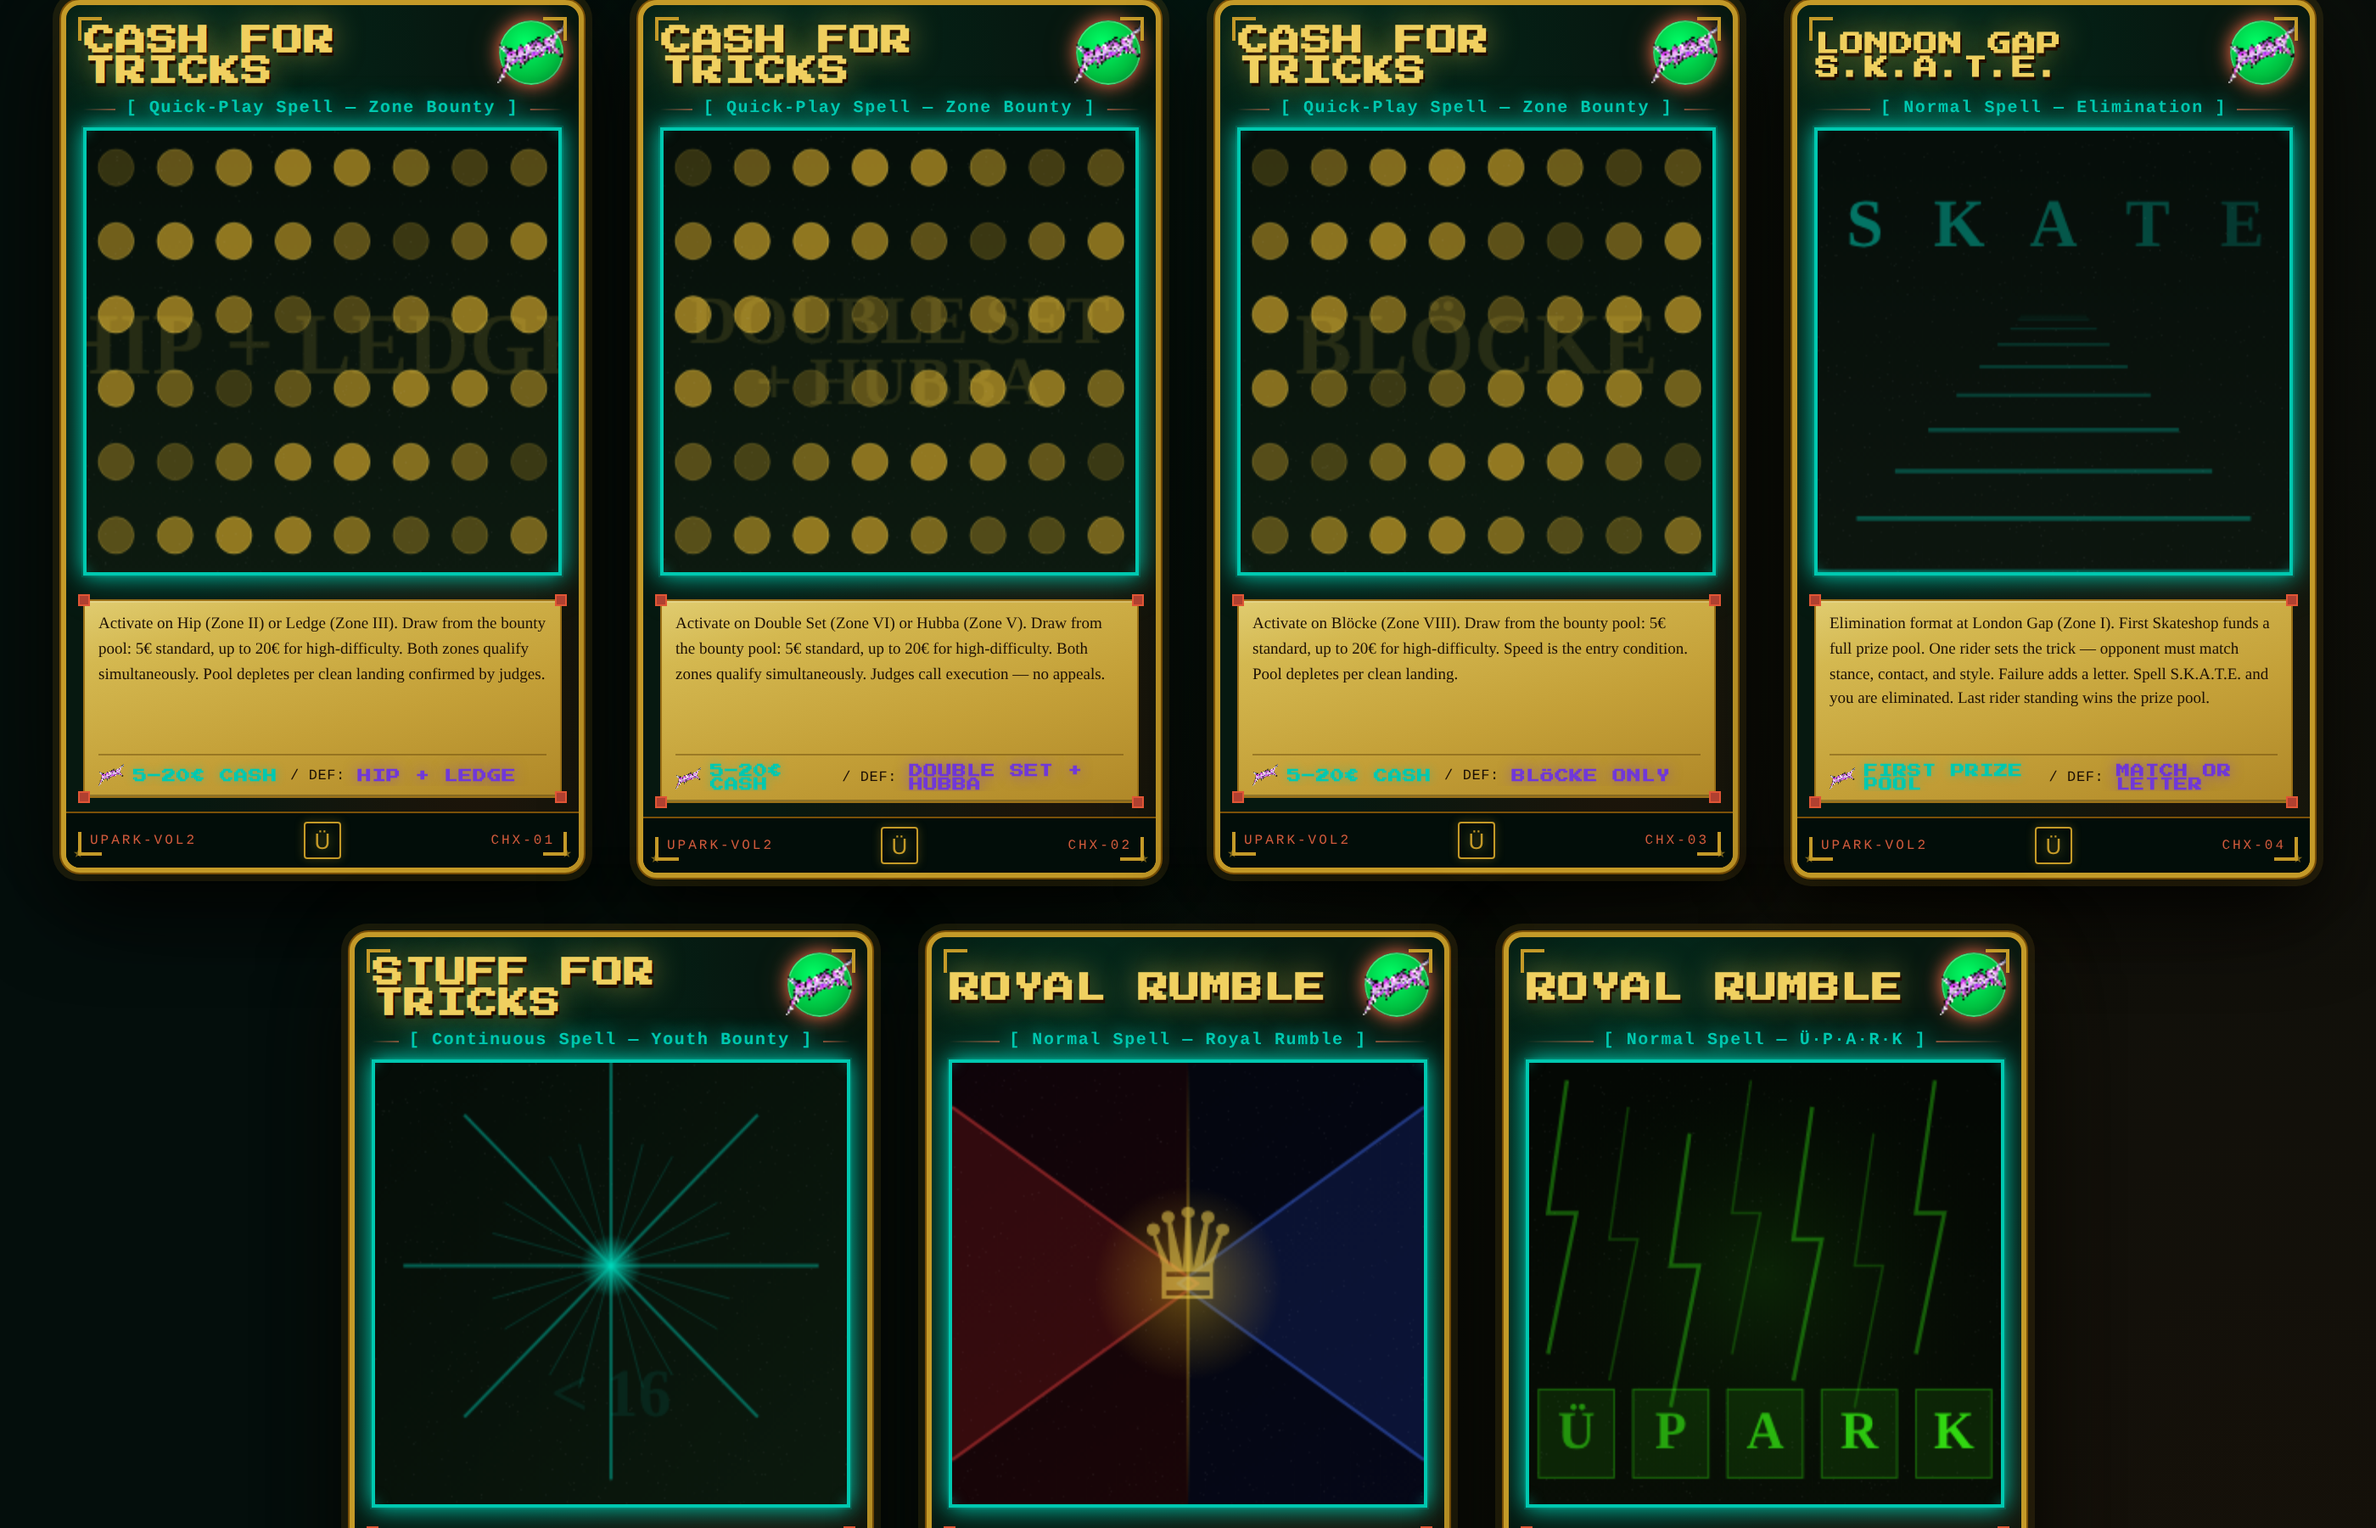
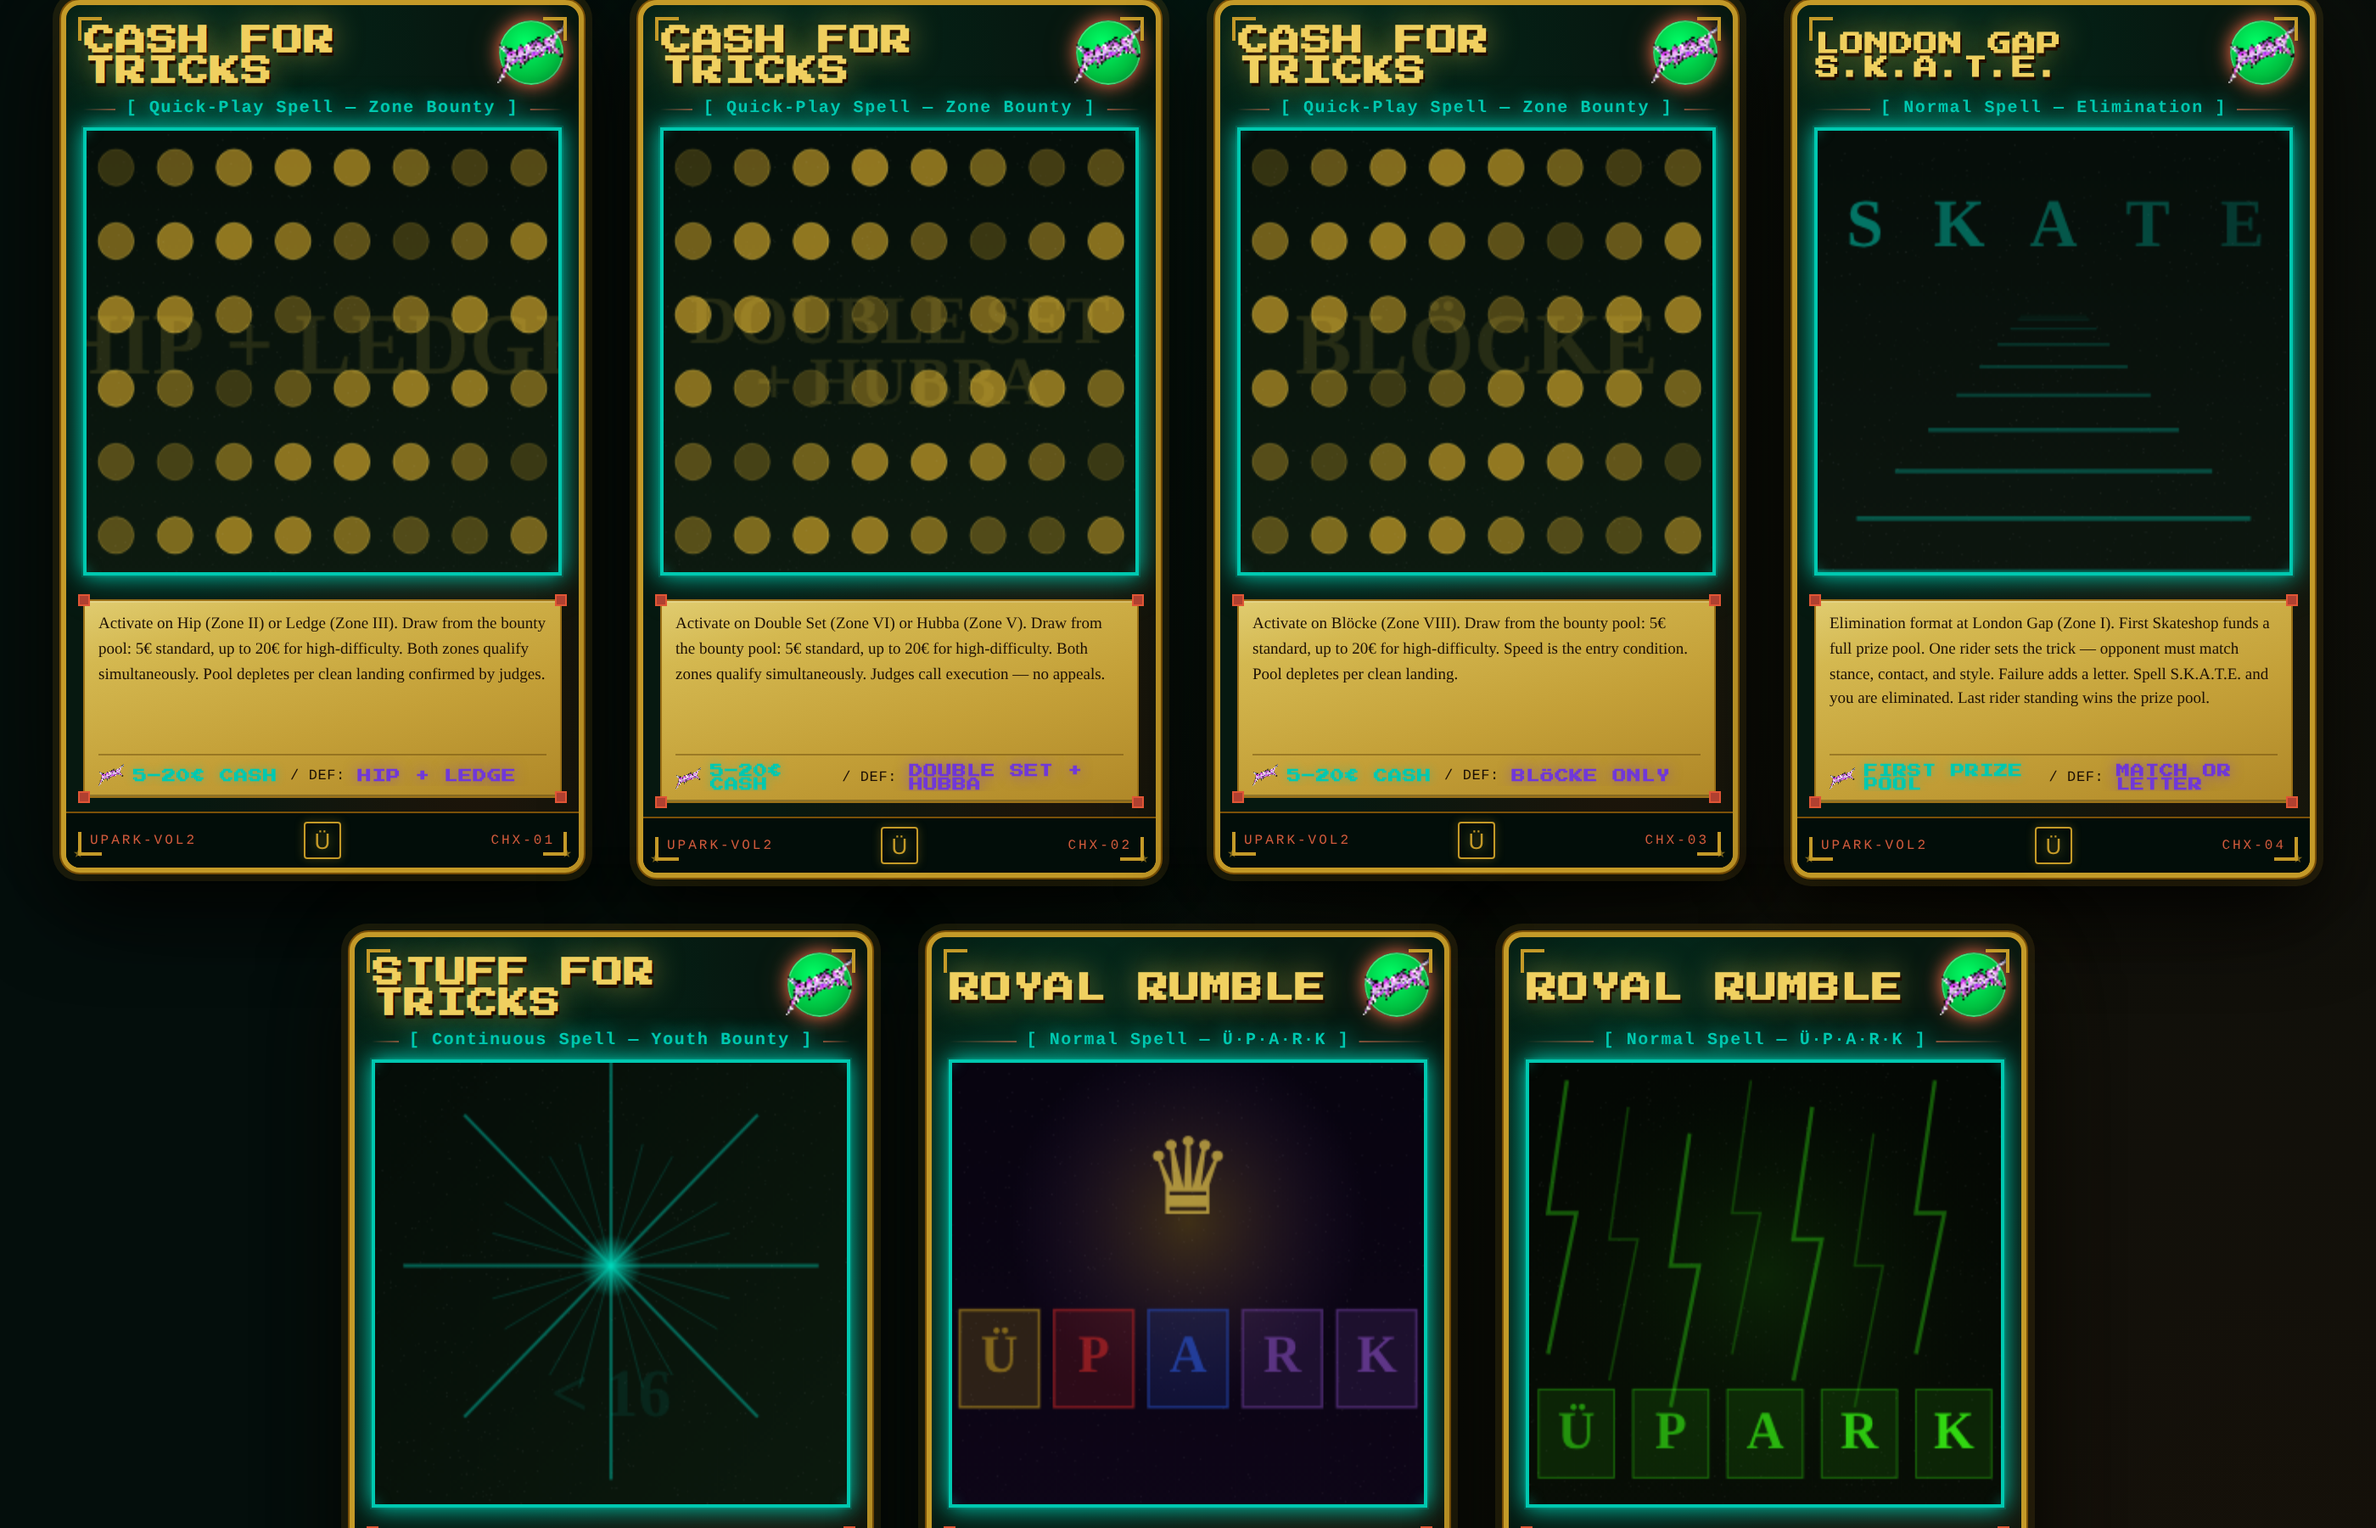
Fix Royal Rumble ÜBER card to use Ü·P·A·R·K mechanic
Both Royal Rumble cards now share the same core game logic: one rider
sets a trick, opponent must match — failure earns a letter, spell
Ü·P·A·R·K and you're out.

CHX-06 (ÜBER): each letter dealt wins an ÜBER deck drop (Gold, Red,
Blue Foil, then two Mystery Drops). Canvas shows purple/gold letter
tiles with crown glyph.

CHX-07 (Pay Day): each letter round won earns 10 Monster Energy cans
for the crowd. Canvas keeps green lightning + letter tiles.

Claude-Session: https://claude.ai/code/session_01GWcLRVRfoxmNxcmrT2Z3UX

Changed region(s): [[0.3729, 0.7156, 0.6214, 0.9644], [0.435, 0.6533, 0.5593, 0.6844]]

diff --git a/index.html b/index.html
@@ -383,7 +383,7 @@ const SPONSOR_CARDS = [
   { id:'CHX-03', name:'CASH FOR TRICKS',    sponsor:'ALL SPONSORS',      type:'Quick-Play Spell — Zone Bounty',      effect:'Activate on Blöcke (Zone VIII). Draw from the bounty pool: 5€ standard, up to 20€ for high-difficulty. Speed is the entry condition. Pool depletes per clean landing.',                                                                                                                                                                                                          atk:'5–20€ CASH',       def:'BLÖCKE ONLY'        },
   { id:'CHX-04', name:'LONDON GAP S.K.A.T.E.', sponsor:'FIRST SKATESHOP', type:'Normal Spell — Elimination',         effect:'Elimination format at London Gap (Zone I). First Skateshop funds a full prize pool. One rider sets the trick — opponent must match stance, contact, and style. Failure adds a letter. Spell S.K.A.T.E. and you are eliminated. Last rider standing wins the prize pool.',                                                                                                          atk:'FIRST PRIZE POOL', def:'MATCH OR LETTER'   },
   { id:'CHX-05', name:'STUFF FOR TRICKS',   sponsor:'TITUS',             type:'Continuous Spell — Youth Bounty',     effect:'Active on all Field Cards during Cash for Tricks events. Valid for riders born 2010 or later — declare age at entry. Youngins receive elevated Titus payout for every clean landing on any active zone. Cannot be activated retroactively.',                                                                                                                                       atk:'TITUS GEAR',       def:'UNDER 16 ONLY'     },
-  { id:'CHX-06', name:'ROYAL RUMBLE',       sponsor:'ÜBER SKATEBOARDS',  type:'Normal Spell — Royal Rumble',         effect:'Activate when an ÜBER Skateboards sponsored rider is present. One challenger is drawn. Red deck faces Blue deck head-to-head. Winner claims the Champ title and all three mystery items — sealed until the event opens. One activation per event.',                                                                                                                                atk:'RED + BLUE DECK',  def:'3 MYSTERY ITEMS'   },
+  { id:'CHX-06', name:'ROYAL RUMBLE',       sponsor:'ÜBER SKATEBOARDS',  type:'Normal Spell — Ü·P·A·R·K',           effect:'Activate when an ÜBER Skateboards sponsored rider is present. One Challenger faces the reigning Champ in a Game of Ü·P·A·R·K. One rider sets a trick — opponent must match exactly. Failure earns a letter. Collect 1 ÜBER Item Drop per letter dealt: Ü→Gold Foil Deck, P→Red Foil Deck, A→Blue Foil Deck, R+K→Mystery Drop. Spell Ü·P·A·R·K in full — Challenger becomes the new Champ.',  atk:'ÜBER DECK/LETTER', def:'5 LETTERS'         },
   { id:'CHX-07', name:'ROYAL RUMBLE',       sponsor:'PAY DAY',           type:'Normal Spell — Ü·P·A·R·K',           effect:'SKATE-game format using the letters Ü·P·A·R·K. One rider sets a trick — opponent must match exactly. Failure earns a letter. Spell Ü·P·A·R·K and you are eliminated. Pay Day funds 10 Monster Energy cans per letter round won against an opponent. Five letters, five rounds, five chances to claim Monster for the crowd.',                                                  atk:'10 MONSTER/LETTER', def:'5 LETTERS'         },
 ];
 
@@ -581,26 +581,34 @@ function drawTitusYouth(ctx, W, H) {
   grain(ctx, W, H);
 }
 function drawRoyalRumbleUber(ctx, W, H) {
-  const leftBg = ctx.createLinearGradient(0, 0, W * 0.5, H);
-  leftBg.addColorStop(0, '#0f040a'); leftBg.addColorStop(1, '#1a0608');
-  ctx.fillStyle = leftBg; ctx.fillRect(0, 0, W * 0.5, H);
-  const rightBg = ctx.createLinearGradient(W * 0.5, 0, W, H);
-  rightBg.addColorStop(0, '#04060f'); rightBg.addColorStop(1, '#060818');
-  ctx.fillStyle = rightBg; ctx.fillRect(W * 0.5, 0, W * 0.5, H);
-  ctx.beginPath(); ctx.moveTo(0, H * 0.1); ctx.lineTo(W * 0.52, H * 0.5); ctx.lineTo(0, H * 0.9);
-  ctx.fillStyle = 'rgba(200,40,40,0.18)'; ctx.fill();
-  ctx.strokeStyle = 'rgba(220,60,60,0.5)'; ctx.lineWidth = 2; ctx.stroke();
-  ctx.beginPath(); ctx.moveTo(W, H * 0.1); ctx.lineTo(W * 0.48, H * 0.5); ctx.lineTo(W, H * 0.9);
-  ctx.fillStyle = 'rgba(40,80,200,0.18)'; ctx.fill();
-  ctx.strokeStyle = 'rgba(60,100,220,0.5)'; ctx.lineWidth = 2; ctx.stroke();
-  const divG = ctx.createLinearGradient(W * 0.5, 0, W * 0.5, H);
-  divG.addColorStop(0, 'rgba(201,160,32,0)'); divG.addColorStop(0.5, 'rgba(201,160,32,0.75)'); divG.addColorStop(1, 'rgba(201,160,32,0)');
-  ctx.strokeStyle = divG; ctx.lineWidth = 1.5; ctx.beginPath(); ctx.moveTo(W * 0.5, 0); ctx.lineTo(W * 0.5, H); ctx.stroke();
-  const crown = ctx.createRadialGradient(W * 0.5, H * 0.5, 0, W * 0.5, H * 0.5, W * 0.2);
-  crown.addColorStop(0, 'rgba(201,160,32,0.45)'); crown.addColorStop(1, 'rgba(201,160,32,0)');
+  // Dark purple bg with gold glow — ÜBER Ü·P·A·R·K format
+  const bg = ctx.createLinearGradient(0, 0, 0, H);
+  bg.addColorStop(0, '#080410'); bg.addColorStop(1, '#0e0618');
+  ctx.fillStyle = bg; ctx.fillRect(0, 0, W, H);
+  // Crown glow
+  const crown = ctx.createRadialGradient(W * 0.5, H * 0.36, 0, W * 0.5, H * 0.36, W * 0.38);
+  crown.addColorStop(0, 'rgba(201,160,32,0.28)'); crown.addColorStop(1, 'rgba(112,64,160,0)');
   ctx.fillStyle = crown; ctx.fillRect(0, 0, W, H);
-  ctx.font = `${W * 0.26}px Georgia`; ctx.textAlign = 'center'; ctx.textBaseline = 'middle';
-  ctx.fillStyle = 'rgba(240,208,80,0.55)'; ctx.fillText('♛', W * 0.5, H * 0.46);
+  // Crown glyph
+  ctx.font = `${W * 0.22}px Georgia`; ctx.textAlign = 'center'; ctx.textBaseline = 'middle';
+  ctx.fillStyle = 'rgba(240,208,80,0.65)'; ctx.fillText('♛', W * 0.5, H * 0.28);
+  // Ü·P·A·R·K letter tiles
+  const letters = ['\xDC','P','A','R','K'];
+  const tileW = W / letters.length;
+  const tileColors = [
+    'rgba(201,160,32,', 'rgba(200,40,40,', 'rgba(40,80,200,',
+    'rgba(112,64,160,', 'rgba(112,64,160,'
+  ];
+  letters.forEach((l, i) => {
+    const tx = tileW * i + tileW * 0.08;
+    const ty = H * 0.56;
+    ctx.fillStyle = tileColors[i] + '0.18)';
+    ctx.fillRect(tx, ty, tileW * 0.84, H * 0.22);
+    ctx.strokeStyle = tileColors[i] + '0.55)'; ctx.lineWidth = 1.5;
+    ctx.strokeRect(tx, ty, tileW * 0.84, H * 0.22);
+    ctx.font = `bold ${W * 0.11}px Georgia`; ctx.textAlign = 'center'; ctx.textBaseline = 'middle';
+    ctx.fillStyle = tileColors[i] + `${0.55 + i * 0.06})`; ctx.fillText(l, tx + tileW * 0.42, ty + H * 0.11);
+  });
   grain(ctx, W, H);
 }
 function drawRoyalRumblePayday(ctx, W, H) {
